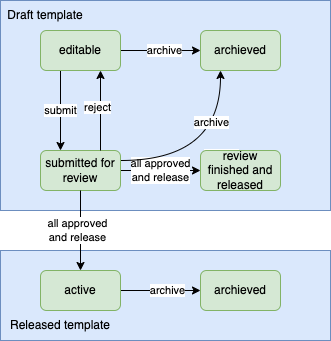
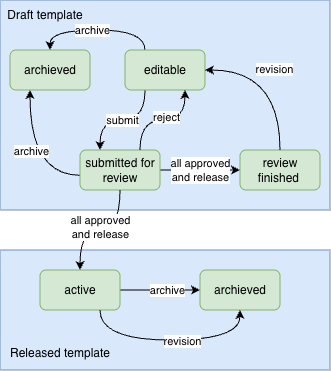
update

diff --git a/docs/template/builder.md b/docs/template/builder.md
@@ -5,6 +5,8 @@ starting point to use the traveler application for most users.
 
 #### Template type
 
+**Note: this section depends on configuration**
+
 Log in the traveler application, and navigate to the <a href="/forms/">Forms or
 Templates</a> page. Then click the <a id="new" href="/forms/new" target="_blank"
 data-toggle="tooltip" title="create new empty forms" class="btn btn-primary"><i
@@ -27,6 +29,8 @@ the normal type for your first try.
 
 #### Template components
 
+**Note: this section depends on configuration**
+
 A new template has no inputs inside. The user can add new components, update the
 attributes of an existing component, duplicate a component, and adjust the
 location of a component.
@@ -35,6 +39,7 @@ location of a component.
 
 The template builder support 8 basic inputs types:
 
+<!-- prettier-ignore -->
 | input name | usage | properties |
 | ----------- | ----------- | ----------- |
 | Checkbox | specify a boolean value, true or false | Label, User defined key, Text, Required |
@@ -54,6 +59,7 @@ application. The details of the input properties are listed in the following
 table.
 <br>
 
+<!-- prettier-ignore -->
 | property name | usage | notes |
 | ------- | ------ |  -------- |
 | Label | appears in front of the input, short description | default as "label", SHOULD be short and unique in the template |
@@ -80,9 +86,8 @@ device, a user needs to hold a special key while using mouse to click on
 options. On a mobile device, a user needs to click on the element in order to
 reveal the options.
 
-Many find that a set of checkbox input has a better user experience, like [this
-example on
-MDN](https://developer.mozilla.org/en-US/docs/Web/HTML/Element/input/checkbox#try_it).
+Many find that a set of checkbox input has a better user experience, like
+[this example on MDN](https://developer.mozilla.org/en-US/docs/Web/HTML/Element/input/checkbox#try_it).
 We use checkboxes to implement multiple choice in the traveler form builder.
 
 ##### Advanced components
@@ -116,6 +121,18 @@ The first button is to show or hide the attribute panel for the component. The
 second is to create a new component same to the current component. The third is
 to remove the current component from the template.
 
+##### Numbering
+
+**Note: this section depends on configuration**
+
+A sections and elements inside a template can be automatically numbered. Or the
+user can specify the numbers manually. When the auto numbering feature is
+disabled, a set of four buttons shows when hovering on a template component.
+
+<div class="btn-group"><a data-toggle="tooltip" title="number" class="btn btn-info"><i class="fa fa-sort-numeric-asc fa-lg"></i></a><a data-toggle="tooltip" title="edit" class="btn btn-primary"><i class="fa fa-edit fa-lg"></i></a><a data-toggle="tooltip" title="duplicate" class="btn btn-info"><i class="fa fa-copy fa-lg"></i></a><a data-toggle="tooltip" title="remove" class="btn btn-warning"><i class="fa fa-trash-o fa-lg"></i></a></div>
+
+Click the first button on the left to set the number of the current element.
+
 #### Save changes
 
 Whenever you update the template by adding a new input, or updating an input's
@@ -148,6 +165,8 @@ numbers by clicking the <button class="btn btn-primary">Generate
 numbering</button> button.
 
 #### Adjust component location
+
+**Note: this section depends on configuration**
 
 Click the <button class="btn">Adjust location</button> to enter the location
 adjustment mode. The user can drag and drop a component to a different place.

diff --git a/docs/template/tab.md b/docs/template/tab.md
@@ -1,16 +1,14 @@
 ### Tabs on the template page
 
-The templates are listed in different tabs according to their status and ownership like the following. Please click the tab to see what are the content to be included in each tab.
+**Note: this section depends on configuration**
+
+The templates are listed in different tabs according to their status. Please
+click the tab to see what are the content to be included in each tab.
 
 <div>
-<ul class="nav nav-tabs"><li class="active"><a href="#forms" data-toggle="tab">My draft templates</a></li><li><a href="#transferredforms" data-toggle="tab">Transferred draft templates</a></li><li><a href="#sharedfroms" data-toggle="tab">Shared draft templates</a></li><li><a href="#groupsharedfroms" data-toggle="tab">Group shared draft templates</a></li><li><a href="#submittedforms" data-toggle="tab">Under review templates</a></li><li><a href="#closedforms" data-toggle="tab">Approved and released template</a></li><li><a href="#archivedforms" data-toggle="tab">Archived draft templates</a></li></ul>
+<ul class="nav nav-tabs"><li class="active"><a href="#forms" data-toggle="tab">Draft templates</a></li><li><a href="#submittedforms" data-toggle="tab">Under review templates</a></li></ul>
 <div class="tab-content well">
-<div id="forms" class="tab-pane active">All draft templates created by the current login user</div>
-<div id="transferredforms" class="tab-pane">All draft templates transferredd to the current login user from other users</div>
-<div id="sharedfroms" class="tab-pane">All draft templates shared with the current login user</div>
-<div id="groupsharedfroms" class="tab-pane">All draft templates shared with the current login user's group</div>
-<div id="submittedforms" class="tab-pane">All templates owned by the current login user and submitted for review</div>
-<div id="closedforms" class="tab-pane">All templates whose review process was closed</div>
-<div id="archivedforms" class="tab-pane">All templates owned by the current login user and archived</div>
+<div id="forms" class="tab-pane active">All draft templates</div>
+<div id="submittedforms" class="tab-pane">All draft templates under review</div>
 </div>
 </div>

diff --git a/docs/template/lifecycle.md b/docs/template/lifecycle.md
@@ -15,22 +15,16 @@ can be used to create a traveler. The traveler application supports the review
 and approval process of templates.
 
 A template is a draft and editable when created. When a draft template is not
-needed any more, the owner can archive it. The owner can clone an archived
-template to generate a new draft template if some work needs to be picked up
-later.
+needed any more, it can be archived.
 
 When a draft template is ready for review, its owner can request one or more
-reviewers to check if the template is good to release. A reviewer can either
+reviewers to check if the template is ready to release. A reviewer can either
 approve or request for change. When any reviewer requests a change, the review
 process ends and the form becomes editable. All the reviewers must approve
 before a template can be released.
 
-When a user releases a template after a successful review process, a new
-released template is created. The user can choose to archive previously released
-templates from the same draft template of different versions. If the draft
-template is a normal template, the user can choose to attach a released
-discrepancy template with it.
-
-A released template can be archived. Travelers can be created from an archived
-released template. This happens when the process is obsoleted or a new process
-is available.
+When a template is released after a review process, a new released template is
+created. A released template can be archived. A released template can be updated
+by reversion. When a reversion starts, no traveler can be created from the old
+released template. The original draft template becomes editable, from where a
+new released template version can be created after a new review process.
